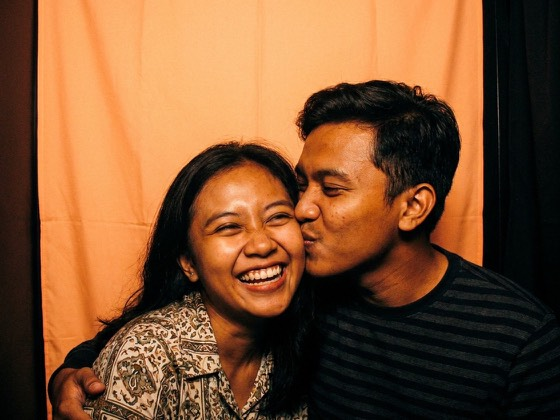
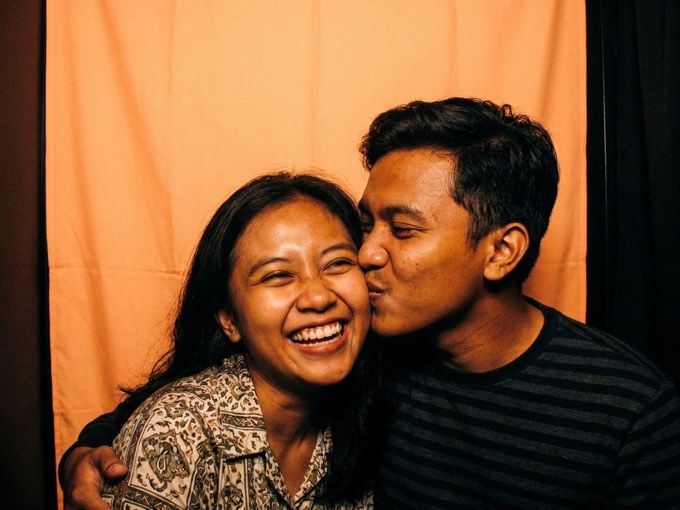
fix(photoboost): the idle strip showed four thumbnails and read as empty
Four cells made the sample strip taller than the entire left column, so a
dead band ran across the middle of the screen — and shrinking each photo
to fit left the card mostly white margin. The thing meant to sell the
booth was the sparsest part of it.

Three cells at 300x214 instead of four at 210x150. The strip is shorter
than the text column now rather than towering over it, and each photo is
large enough to actually read as a photograph of people enjoying
themselves. All four images still cycle through, so none goes unseen.

The columns were 6:4 while the text never filled its six, which opened a
channel of dead space between the button and the strip. 5:4 closes it.

Sample assets re-exported at 680px: 300pt on a 2x tablet needs 600px of
image and they were 560, so they were being upscaled.

Verified on the Pixel Tablet emulator.

diff --git a/apps/photoboost/lib/features/booth_screen.dart b/apps/photoboost/lib/features/booth_screen.dart
@@ -200,7 +200,7 @@ class _IdleView extends StatelessWidget {
               mainAxisAlignment: MainAxisAlignment.center,
               children: [
                 Expanded(
-                  flex: 6,
+                  flex: 5,
                   child: Column(
                     mainAxisAlignment: MainAxisAlignment.center,
                     crossAxisAlignment: CrossAxisAlignment.start,
@@ -262,9 +262,13 @@ class _IdleView extends StatelessWidget {
                     ],
                   ),
                 ),
-                const SizedBox(width: SellonSpacing.xl),
+                const SizedBox(width: SellonSpacing.lg),
                 // A sample strip, so what you get is visible before you
                 // pay rather than described in words.
+                //
+                // 5:4 rather than 6:4 — the text column was claiming width
+                // it never filled, which opened a dead channel between the
+                // button and the strip.
                 const Expanded(flex: 4, child: _SampleStrip()),
               ],
             ),
@@ -365,7 +369,7 @@ class _SampleStripState extends State<_SampleStrip>
           // pictures floating in it.
           child: Center(
             child: Container(
-              padding: const EdgeInsets.fromLTRB(14, 14, 14, 22),
+              padding: const EdgeInsets.fromLTRB(16, 16, 16, 24),
               decoration: BoxDecoration(
                 color: Colors.white,
                 borderRadius: BorderRadius.circular(SellonRadii.card),
@@ -374,12 +378,18 @@ class _SampleStripState extends State<_SampleStrip>
               child: Column(
                 mainAxisSize: MainAxisSize.min,
                 children: [
-                  for (var i = 0; i < 4; i++)
+                  // Three cells, not four. Four made the strip taller than
+                  // the whole left column, which left a dead band across the
+                  // middle of the screen — and shrank each photo to the point
+                  // where the card was mostly white margin.
+                  for (var i = 0; i < _stripCells; i++)
                     Padding(
-                      padding: const EdgeInsets.only(bottom: 10),
+                      padding: const EdgeInsets.only(bottom: 12),
                       child: _SampleFrame(
                         // Each cell advances on its own beat, so the strip
                         // looks like it is still being filled.
+                        // Still cycles all four photographs, so none of them
+                        // goes unseen just because the strip got shorter.
                         seed: ((_c.value * 4).floor() + i) % _sampleCount,
                       ),
                     ),
@@ -413,8 +423,8 @@ class _SampleFrame extends StatelessWidget {
         borderRadius: BorderRadius.circular(10),
         child: Image.asset(
           'assets/samples/${(seed % _sampleCount) + 1}.jpg',
-          width: 210,
-          height: 150,
+          width: 300,
+          height: 214,
           fit: BoxFit.cover,
           // The strip sells the product, so it shows the product: real
           // photographs of people having fun, not coloured rectangles with
@@ -428,6 +438,9 @@ class _SampleFrame extends StatelessWidget {
 
 /// How many sample photographs ship in assets/samples.
 const int _sampleCount = 4;
+
+/// How many of them the idle strip shows at once.
+const int _stripCells = 3;
 
 class _Busy extends StatelessWidget {
   const _Busy({required this.message});
